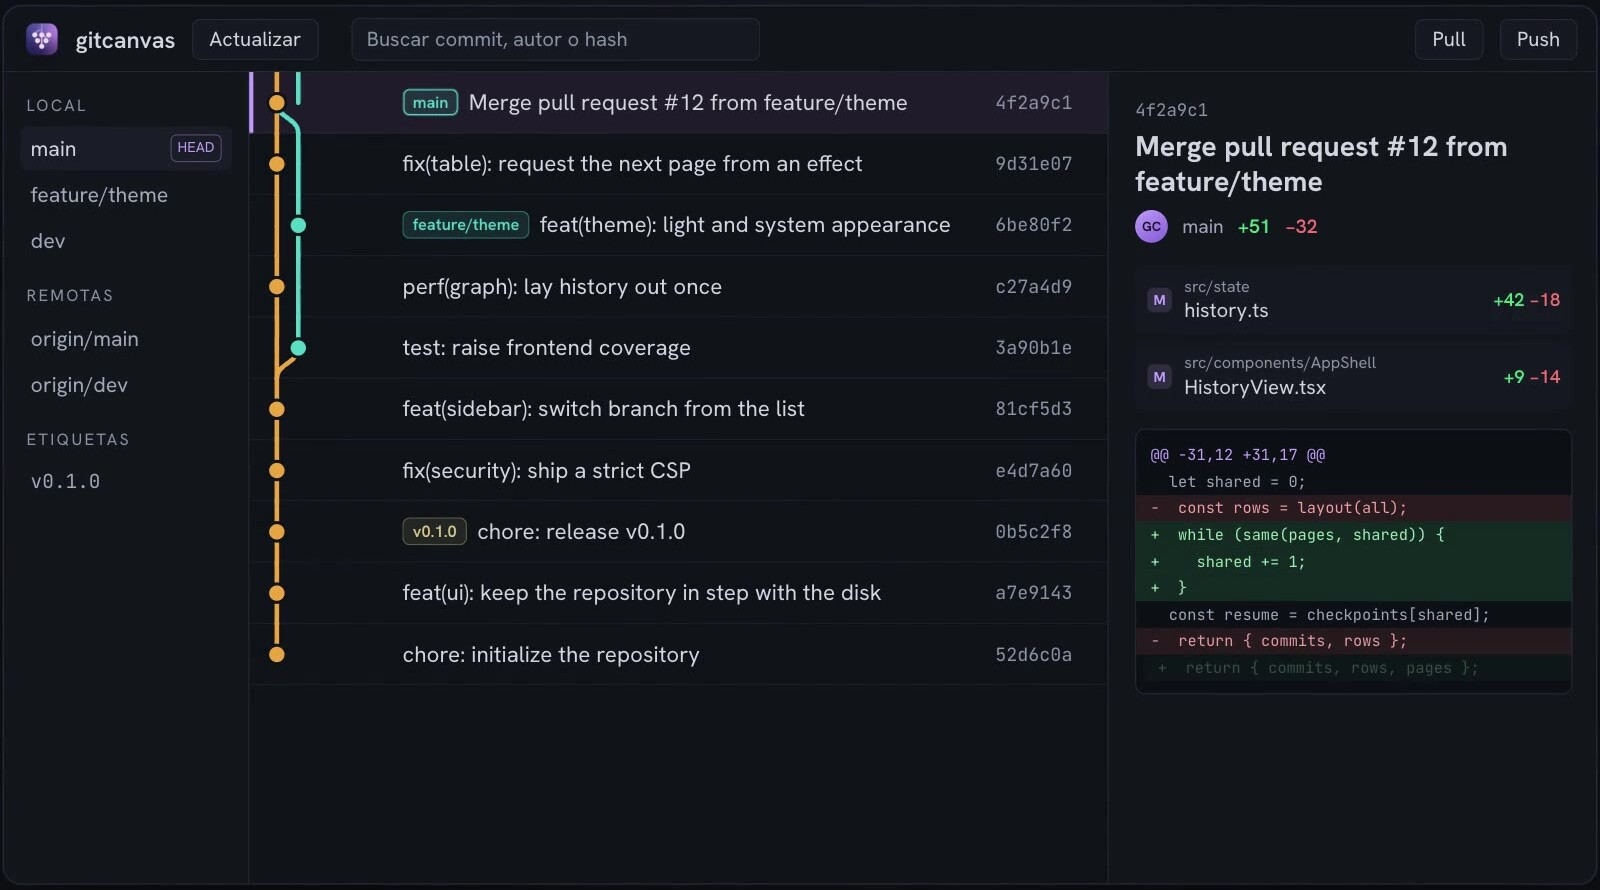
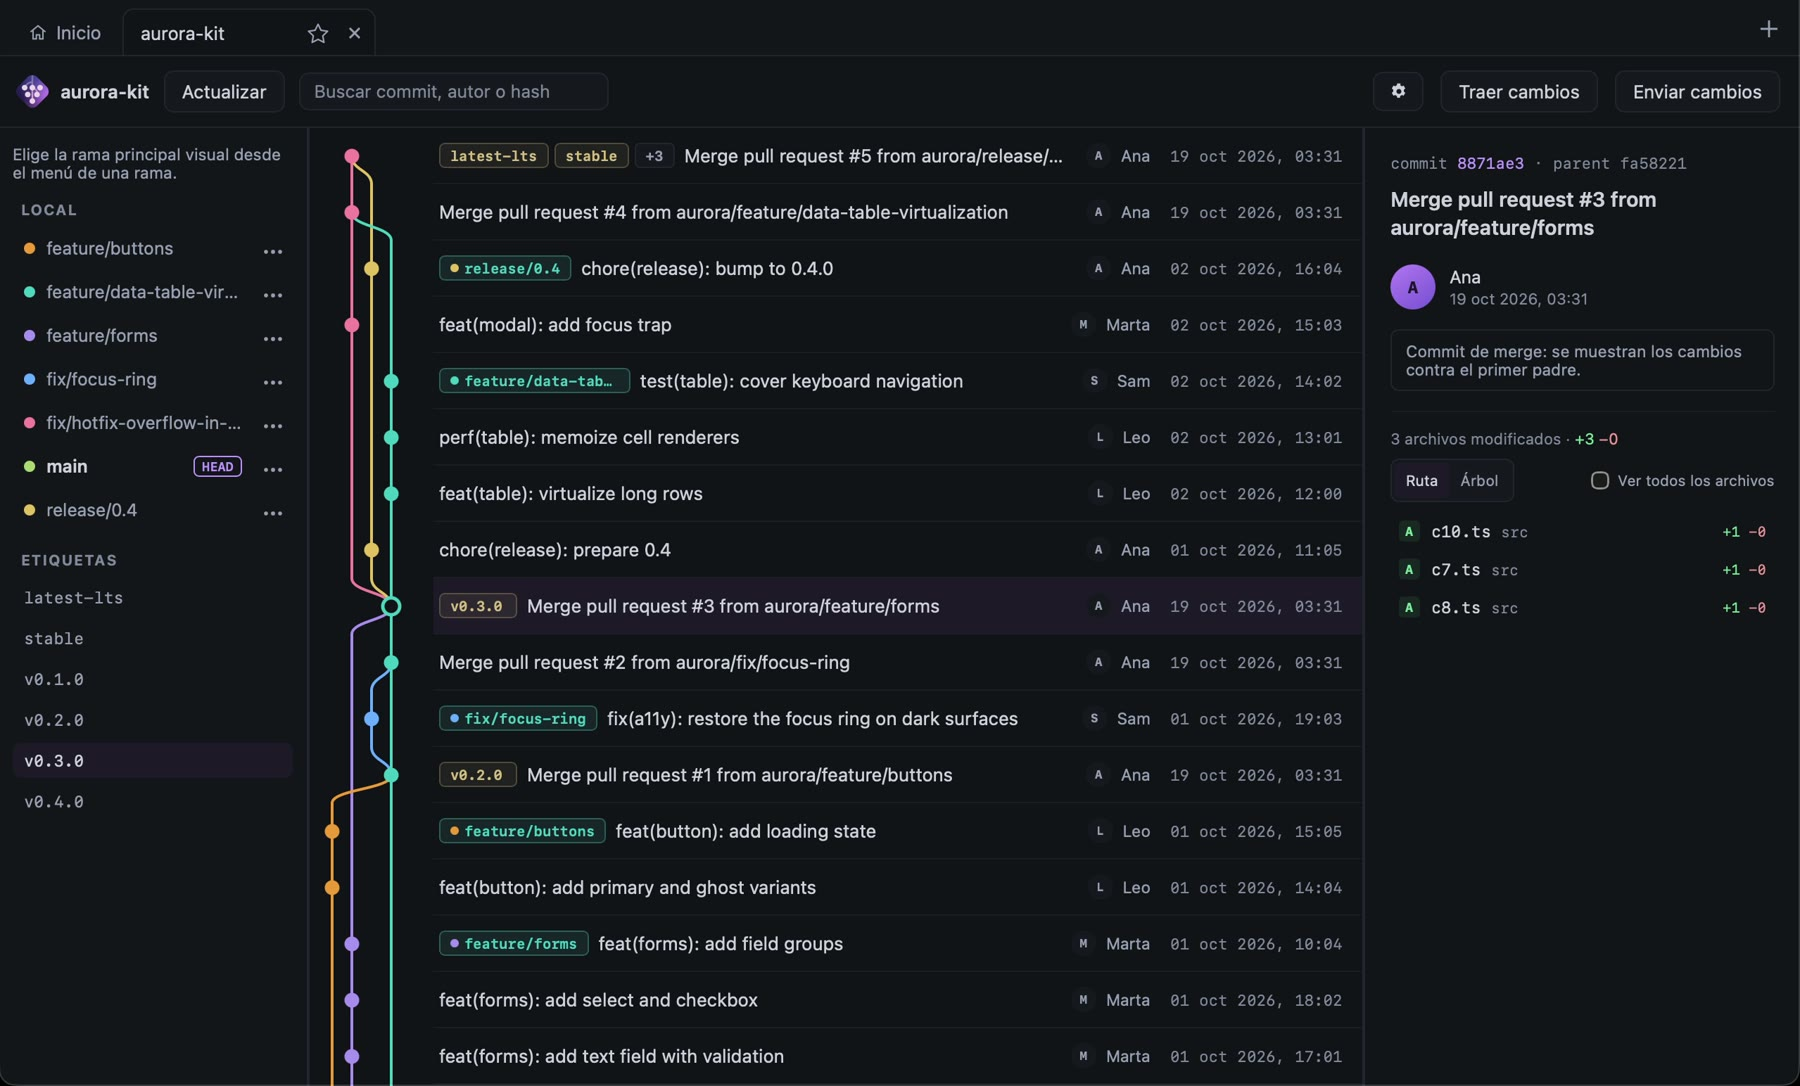
docs(readme): present v0.4 graph features with new screenshots and demo gif

diff --git a/README.md b/README.md
@@ -15,7 +15,7 @@
 </p>
 
 <p align="center">
-  <img src="docs/assets/demo.gif" alt="GitCanvas walking a commit graph, opening a merge commit and reading its diff" width="860">
+  <img src="docs/assets/demo.gif" alt="GitCanvas 0.4: changing a branch color, choosing the visual main branch and opening the +N reference menu" width="860">
 </p>
 
 GitCanvas does one thing: it lets you **see the shape of a repository's history**.
@@ -27,8 +27,26 @@ rebase or pull-request workflows, tools like GitKraken, Tower or Fork do far mor
 GitCanvas is the opposite trade: small, fast, free, and focused on reading history well.
 
 <p align="center">
-  <img src="docs/assets/screenshot.jpg" alt="GitCanvas showing the branch graph, a selected merge commit and its diff" width="860">
+  <img src="docs/assets/screenshot.jpg" alt="GitCanvas showing the branch graph with a color per branch, a selected merge commit and its details" width="860">
 </p>
+
+## What's new in 0.4
+
+The graph gets an identity: every branch keeps its color and its lane, and you decide how it looks.
+
+<table>
+  <tr>
+    <td width="50%"><img src="docs/assets/screenshot-branch-colors.jpg" alt="Choosing a named color for a branch from its menu"><br><sub><strong>Your color, per branch.</strong> Open a branch's menu and pick a named color; the graph updates at once and the choice survives restarts, independently for each worktree.</sub></td>
+    <td width="50%"><img src="docs/assets/screenshot-visual-main.jpg" alt="The release branch chosen as the visual main branch, drawn in the leftmost lane"><br><sub><strong>A visual main branch.</strong> Mark any branch as the main one and it takes the leftmost lane; the others arrange themselves around it.</sub></td>
+  </tr>
+  <tr>
+    <td colspan="2"><img src="docs/assets/screenshot-references.jpg" alt="Tags listed first on a commit and a +2 menu with the hidden reference names"><br><sub><strong>Readable reference labels.</strong> Tags come first, the color dot keeps a fixed size, long names truncate with an ellipsis, and whatever does not fit folds into a <code>+N</code> menu where each name can be copied.</sub></td>
+  </tr>
+</table>
+
+Also in 0.4: merges and shared-base branches use compact curves with no lane detours, colors stay
+stable as you load more pages, and obsolete history walks are released when references move.
+See the [changelog](CHANGELOG.md) for the full list.
 
 ## Features
 
@@ -40,9 +58,10 @@ GitCanvas is the opposite trade: small, fast, free, and focused on reading histo
 
 - **Branch graph with stable lanes.** Branches and merges are drawn as lanes in SVG, and
   lanes never reorder as you load more history. Branch and tag badges sit on the commits
-  they point at. On `dev` for v0.4, named colors stay with branches across pages and
-  restarts, configured upstreams share colors, and a chosen visual main branch keeps
-  the leftmost lane. Branch menus let you change appearance without checkout.
+  they point at, tags first, with overflow folded into a `+N` menu. Named colors stay with
+  branches across pages and restarts, configured upstreams share colors, and a chosen
+  visual main branch keeps the leftmost lane. Branch menus change a branch's color or
+  visual main without a checkout.
 - **Fast on large repositories.** History loads 500 commits at a time and the graph layout
   is extended page by page instead of recomputed. Only visible rows are rendered;
   later pages reuse the bounded traversal cache and existing geometry.
